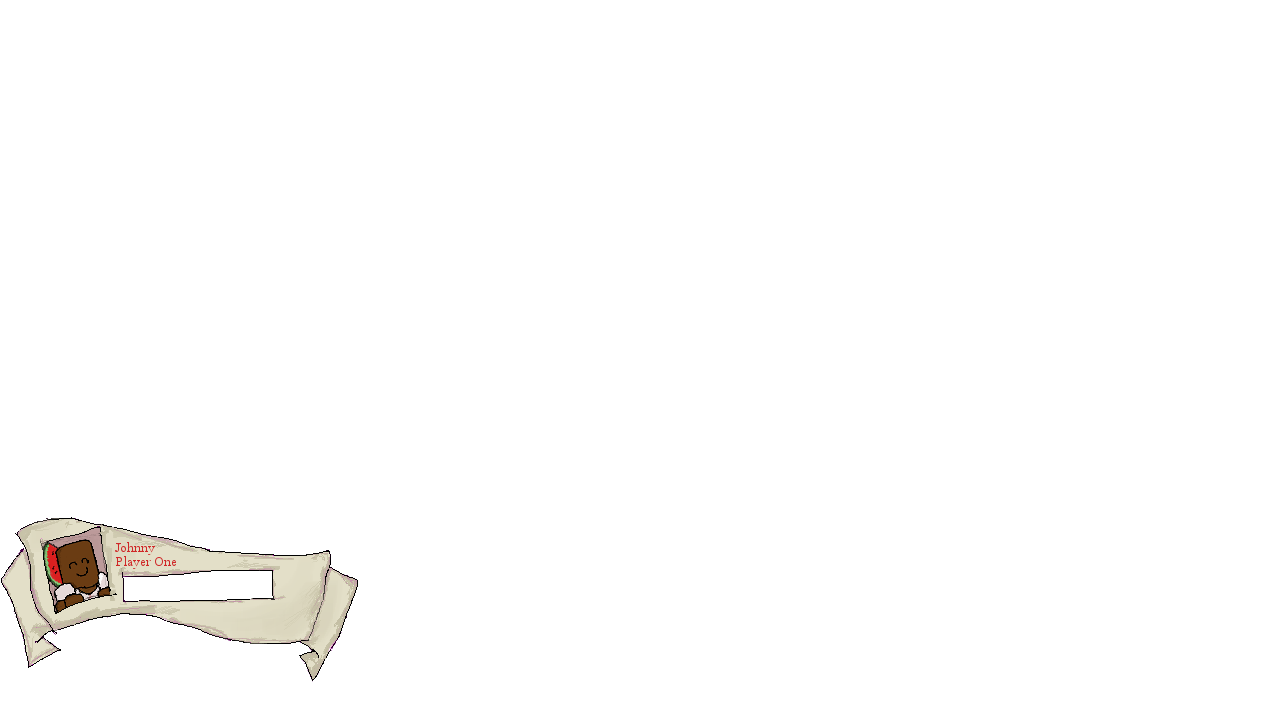
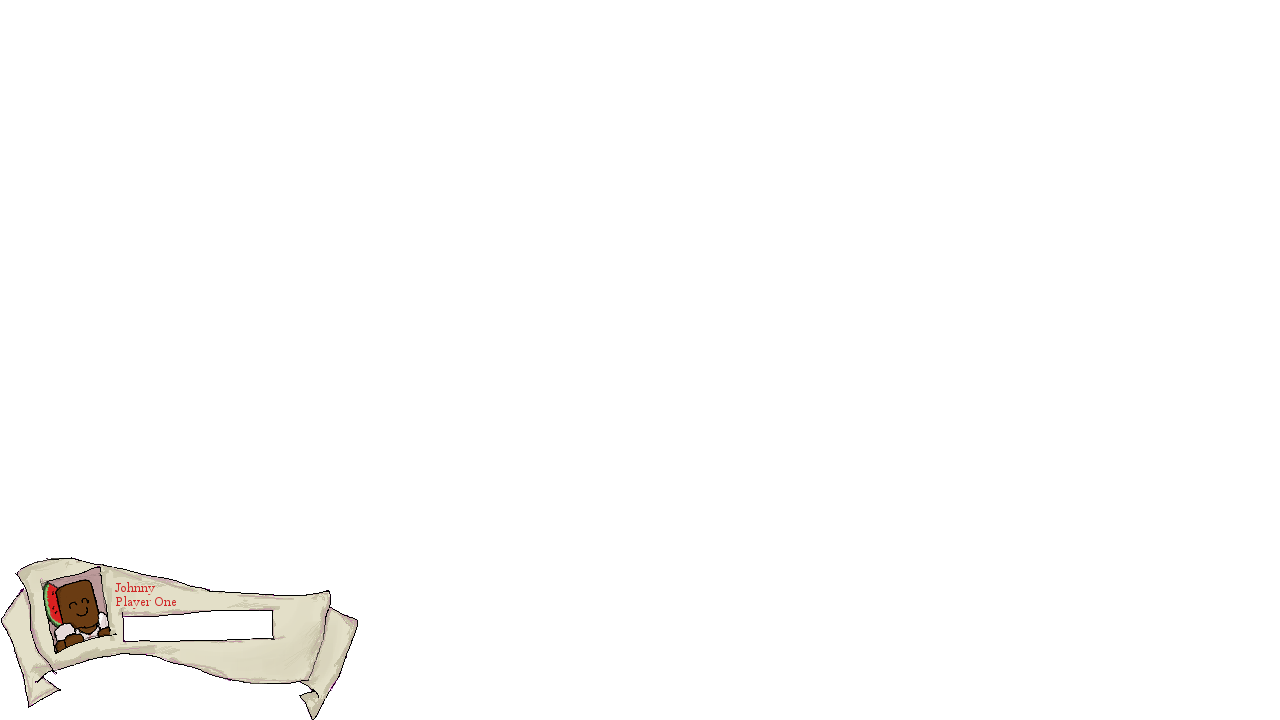
PlayerOneLifeBar & Two

Changed region(s): [[0.0, 0.7028, 0.2812, 1.0]]

diff --git a/Johnny_Punch/Johnny_Punch/Game/Texture_manager.cs b/Johnny_Punch/Johnny_Punch/Game/Texture_manager.cs
@@ -27,13 +27,18 @@ namespace Johnny_Punch
         #endregion
 
         #region StatusBar graphics
+        public static Texture2D lifeBarPlayerOneTex { get; private set; }
         public static Texture2D lifeBarTex { get; private set; }
+
         #endregion
 
         #region Environment graphics
         public static Texture2D beachbackgroundTex { get; private set; }
-        public static Texture2D statusBarTex { get; private set; }
+        public static Texture2D statusBarPlayerOneTex { get; private set; }
+        public static Texture2D statusBarPlayerTwoTex { get; private set; }
         public static Texture2D beachback2groundTex { get; private set; }
+
+        
         public static Texture2D beachback3groundTex { get; private set; }
         public static Texture2D roadTex { get; private set; }
         public static Texture2D startMenuTex { get; private set; }
@@ -82,6 +87,7 @@ namespace Johnny_Punch
 
             #region StatusBar graphics
             lifeBarTex = Content.Load<Texture2D>(@"Images\Lifebar");
+
             #endregion
 
             #region Environment graphics
@@ -89,7 +95,8 @@ namespace Johnny_Punch
             beachback2groundTex = Content.Load<Texture2D>(@"Images\beachbackground2");
             beachback3groundTex = Content.Load<Texture2D>(@"Images\beachbackground3");
 
-            statusBarTex = Content.Load<Texture2D>(@"Images\StatusBar");
+            statusBarPlayerOneTex = Content.Load<Texture2D>(@"Images\StatusBar1player");
+            statusBarPlayerTwoTex = Content.Load<Texture2D>(@"Images\StatusBar");
             roadTex = Content.Load<Texture2D>(@"Images\road");
             startMenuTex = Content.Load<Texture2D>(@"Images\startmenu");
             manHoleCoverTex = Content.Load<Texture2D>(@"Images\manholecover");

diff --git a/Johnny_Punch/Johnny_Punch/Game/Game_manager.cs b/Johnny_Punch/Johnny_Punch/Game/Game_manager.cs
@@ -81,9 +81,9 @@ namespace Johnny_Punch
             {
                 if (playerManager.playerList[0].percentLife < 1.0f)
                 {
-                    spriteBatch.Draw(TextureManager.lifeBarTex, new Rectangle(120 /*- 50 * (PlayerManager.players - 1)*/, 570, 155, 35), Color.Red);
+                    spriteBatch.Draw(TextureManager.lifeBarTex, new Rectangle(120 /*- 50 * (PlayerManager.players - 1)*/, 608, 155, 35), Color.Red);
                 }
-                spriteBatch.Draw(TextureManager.lifeBarTex, new Rectangle(120, 570, (int)(155 * playerManager.playerList[0].percentLife), 35), Color.Green);
+                spriteBatch.Draw(TextureManager.lifeBarTex, new Rectangle(120, 608, (int)(155 * playerManager.playerList[0].percentLife), 35), Color.Green);
 
                 if (PlayerManager.players == 2)
                 {
@@ -96,7 +96,16 @@ namespace Johnny_Punch
 
                 }
             }
-            spriteBatch.Draw(TextureManager.statusBarTex, Vector2.Zero, null, Color.White, 0, Vector2.Zero, 1, SpriteEffects.None, 0);
+            if (PlayerManager.players == 1)
+            {
+            spriteBatch.Draw(TextureManager.statusBarPlayerOneTex, Vector2.Zero, null, Color.White, 0, Vector2.Zero, 1, SpriteEffects.None, 0);
+
+            }
+            if (PlayerManager.players == 2)
+            {
+            spriteBatch.Draw(TextureManager.statusBarPlayerTwoTex, Vector2.Zero, null, Color.White, 0, Vector2.Zero, 1, SpriteEffects.None, 0);
+
+            }
 
 
             spriteBatch.DrawString(TextureManager.timeFont, secondDigitHours.ToString() + firstDigitHours.ToString() +
